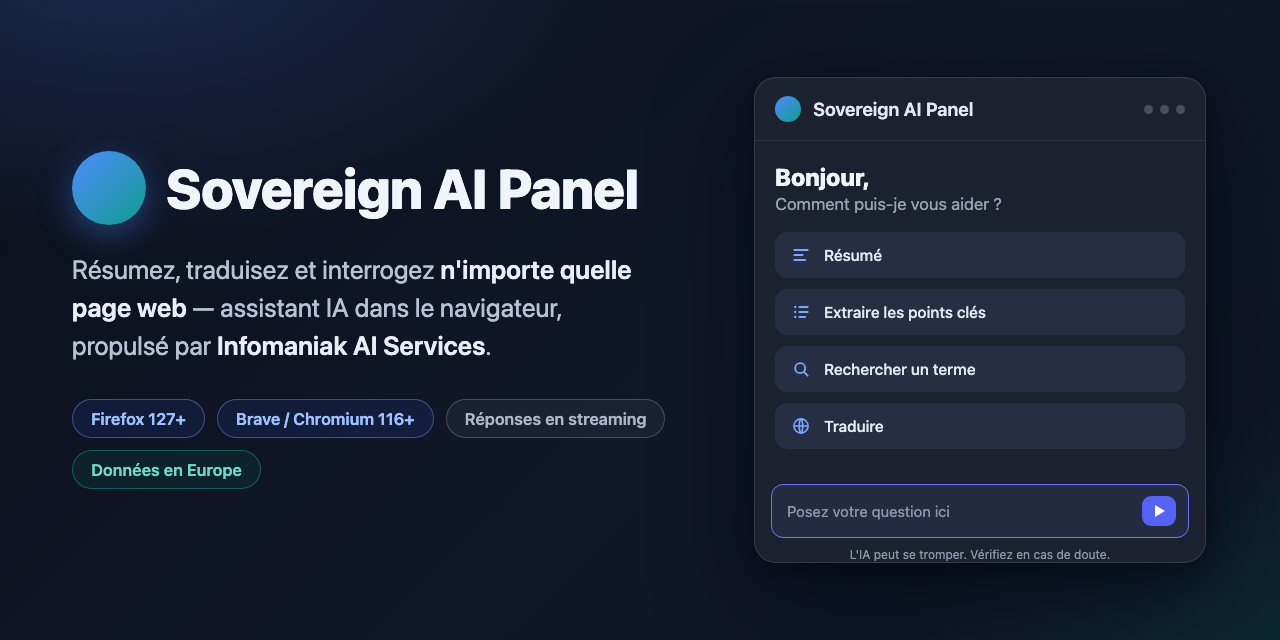
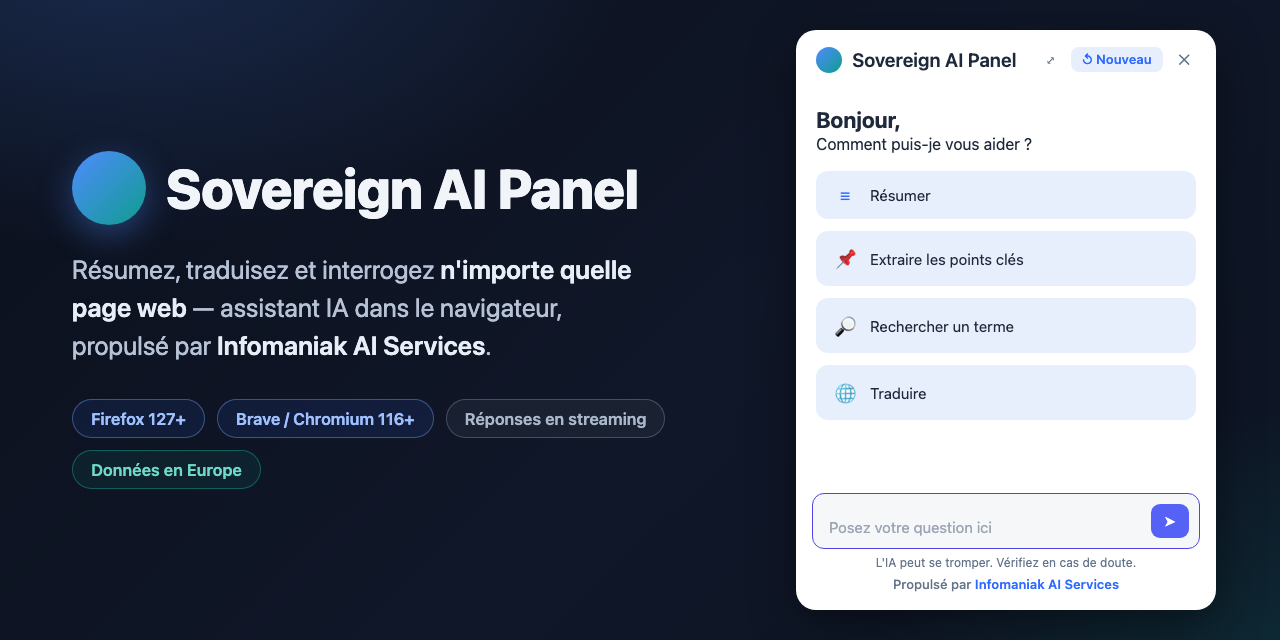
docs: social preview panel mockup matches the real light-mode UI

Changed region(s): [[0.5938, 0.0312, 0.9688, 0.9688]]

diff --git a/README.md b/README.md
@@ -1,6 +1,6 @@
 # Sovereign AI Panel
 
-![Sovereign AI Panel — assistant IA dans le navigateur, propulsé par Infomaniak AI Services](docs/social-preview.png?v=1)
+![Sovereign AI Panel — assistant IA dans le navigateur, propulsé par Infomaniak AI Services](docs/social-preview.png?v=2)
 
 Extension non officielle, non affiliée à Infomaniak. « **[Euria](https://euria.infomaniak.com/)** » est le nom de [l'assistant IA d'Infomaniak](https://news.infomaniak.com/euria-assistant-ia-souverain/).
 Cette extension reproduit son expérience sur n'importe quelle page web via votre propre accès à [l'API Infomaniak AI Services](https://www.infomaniak.com/fr/hebergement/ai-services).
